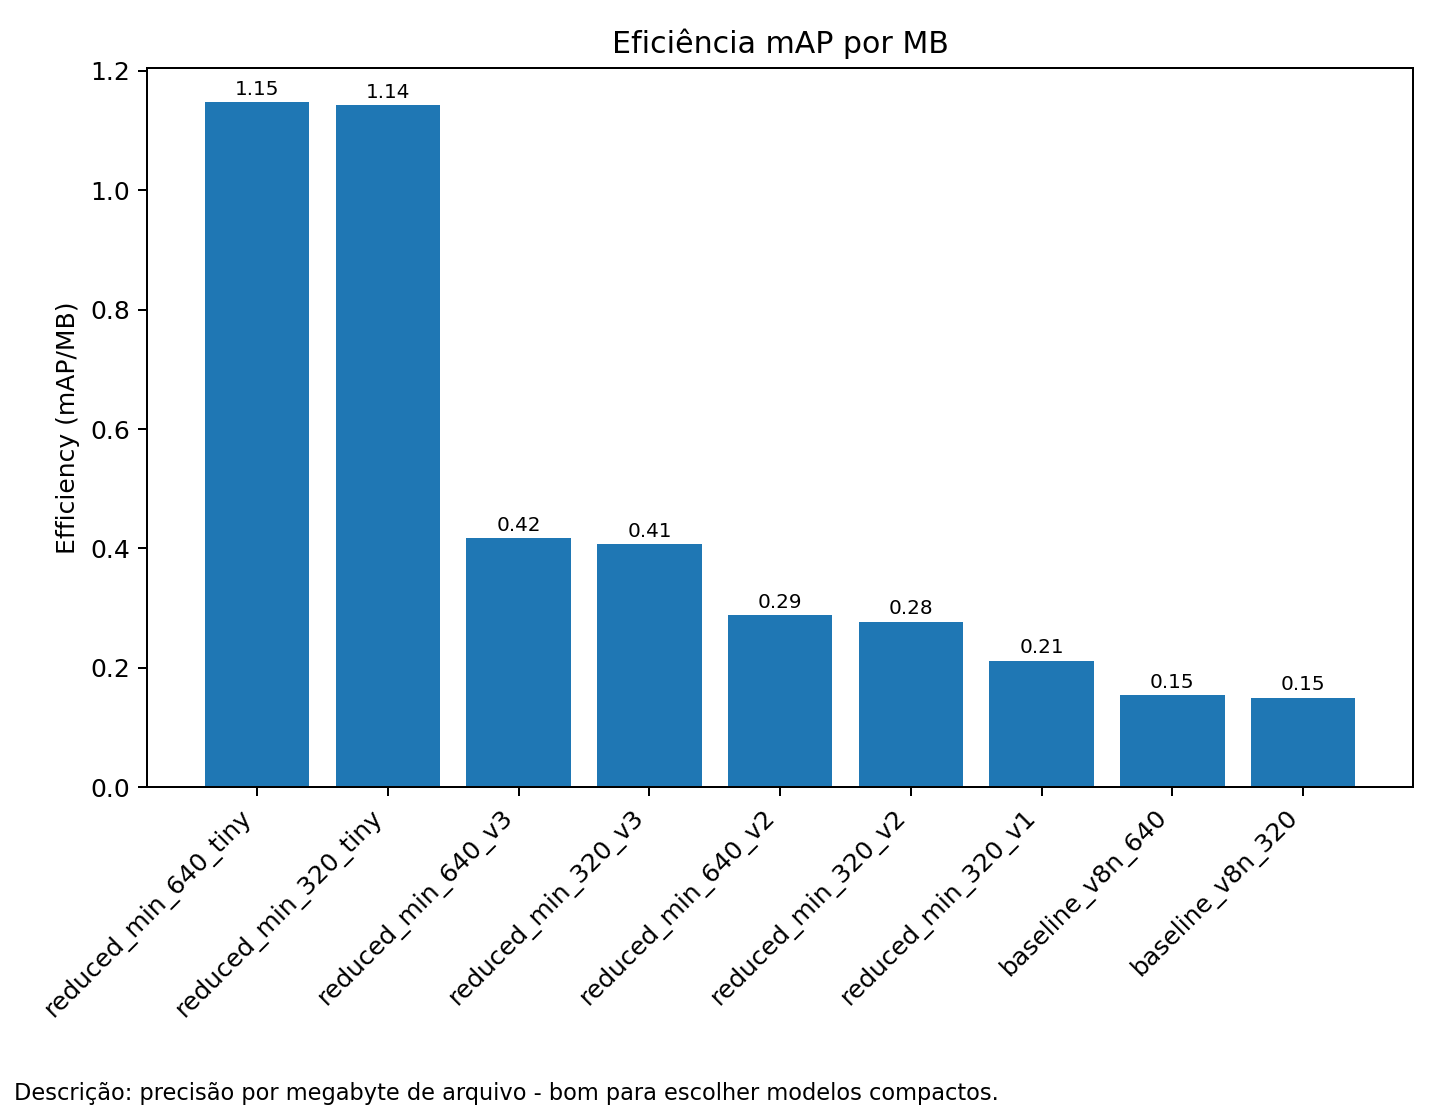
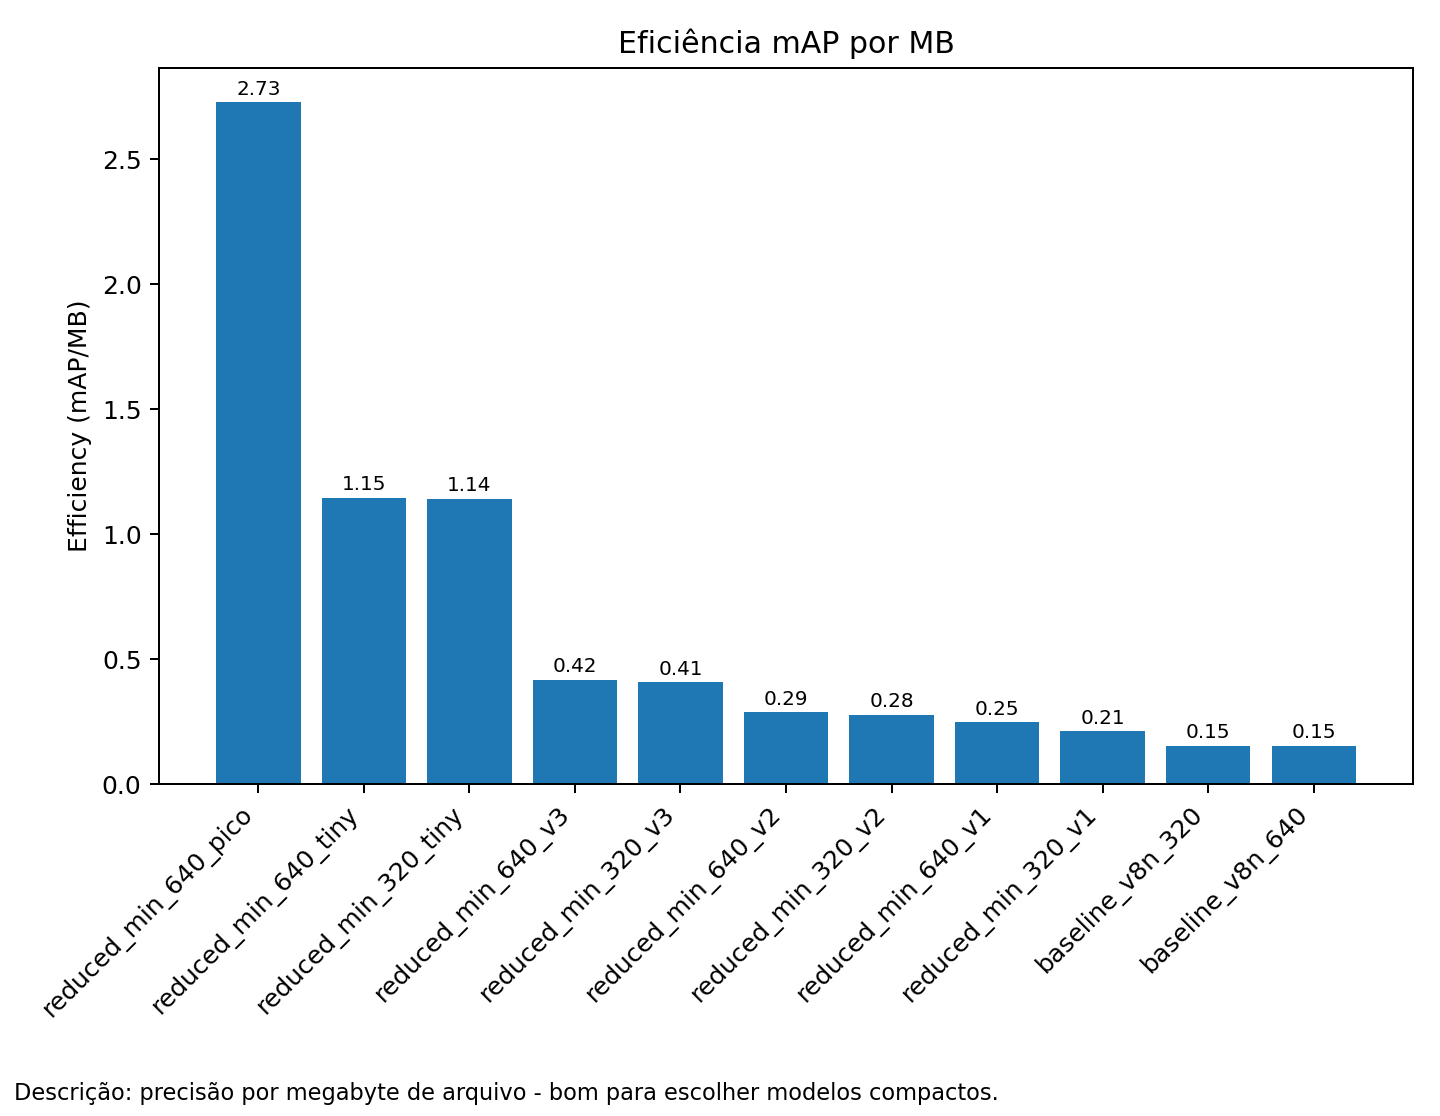
fix: ajuste calculo do score

diff --git a/summarize_runs.py b/summarize_runs.py
@@ -34,10 +34,10 @@ LAT_WARMUP = 10
 LAT_ITERS  = 100
 DEVICE = "cuda:0" if torch.cuda.is_available() else "cpu"
 
-# Pesos do score composto: score = A*mAP - B*log(Params) - C*Latency
-SCORE_A = 1.00   # peso da acurácia (mAP@0.5)
-SCORE_B = 0.35   # penalização por complexidade (log(Params))
-SCORE_C = 0.35   # penalização por latência
+# Pesos do score composto (A > B > C)
+SCORE_WA = 0.60  # mAP
+SCORE_WB = 0.25  # Params (baixo é melhor)
+SCORE_WC = 0.15  # Latência (baixo é melhor)
 
 # Títulos curtos
 MAX_LABEL_LEN = 60
@@ -315,7 +315,7 @@ def plot_bars(df: pd.DataFrame, col: str, title: str, fname: str, outdir: Path):
         "mAP@0.5:0.95": "Descrição: métrica mais exigente (IoU de 0.5 a 0.95). Retrata melhor a qualidade geral do detector.",
         "Efficiency (mAP/Params)": "Descrição: quanta precisão obtemos por milhão de parâmetros - eficiência do modelo.",
         "Efficiency (mAP/MB)": "Descrição: precisão por megabyte de arquivo - bom para escolher modelos compactos.",
-        "Score": "Descrição: ranking único que equilibra precisão, tamanho e velocidade (pesos A/B/C ajustáveis ao objetivo).",
+        "Score": "Descrição: Score composto (0–100) que pondera mAP (60%), número de parâmetros (25%) e latência (15%), priorizando precisão mas premiando modelos menores e mais rápidos.",
     }.get(col, "")
     if hint:
         add_caption(fig, hint)
@@ -325,6 +325,13 @@ def plot_bars(df: pd.DataFrame, col: str, title: str, fname: str, outdir: Path):
     plt.close(fig)
 
 
+def _norm01(x: pd.Series) -> pd.Series:
+    x = pd.to_numeric(x, errors="coerce")
+    xmin, xmax = x.min(skipna=True), x.max(skipna=True)
+    if not np.isfinite(xmin) or not np.isfinite(xmax) or xmax == xmin:
+        return pd.Series(np.nan, index=x.index)
+    return (x - xmin) / (xmax - xmin)
+
 def compute_efficiencies_and_score(df: pd.DataFrame) -> pd.DataFrame:
     d = df.copy()
     p = safe_series(d, "Params (M)")
@@ -332,16 +339,32 @@ def compute_efficiencies_and_score(df: pd.DataFrame) -> pd.DataFrame:
     m = safe_series(d, "mAP@0.5")
     lat = safe_series(d, "Latency (ms)")
 
+    # Eficiências auxiliares
     d["Efficiency (mAP/Params)"] = np.where((p > 0) & m.notna(), m / p, np.nan)
     d["Efficiency (mAP/MB)"]     = np.where((mb > 0) & m.notna(), m / mb, np.nan)
 
-    logp = np.where(p > 0, np.log(p), np.nan)
-    score = np.full(len(d), np.nan, dtype=float)
-    for i in range(len(d)):
-        if np.isfinite(m.iloc[i]) and np.isfinite(logp[i]) and np.isfinite(lat.iloc[i]):
-            score[i] = SCORE_A * m.iloc[i] - SCORE_B * logp[i] - SCORE_C * (lat.iloc[i] / 100.0)
+    # Utilidades normalizadas [0,1]
+    # A: mAP alto -> melhor
+    uA = _norm01(m)
+
+    # B: menos parâmetros melhor (usamos log para suavizar escala)
+    logp = pd.Series(np.where(p > 0, np.log(p), np.nan), index=d.index)
+    uB = _norm01(-logp)  # inverte: menor logp => maior utilidade
+
+    # C: menor latência melhor
+    uC = _norm01(-lat)
+
+    # Score final (0-100)
+    score = 100.0 * (SCORE_WA * uA + SCORE_WB * uB + SCORE_WC * uC)
     d["Score"] = score
+
+    # Extras úteis para depurar
+    d["uA_mAP"]     = uA
+    d["uB_params"]  = uB
+    d["uC_latency"] = uC
+
     return d
+
 
 
 # ----------------- MAIN -----------------
@@ -469,7 +492,7 @@ def main():
         ("mAP@0.5:0.95",      "mAP@0.5:0.95",              "bars_map5095.png"),
         ("Efficiency (mAP/Params)", "Eficiência mAP por Params", "bars_eff_map_per_params.png"),
         ("Efficiency (mAP/MB)",     "Eficiência mAP por MB",     "bars_eff_map_per_mb.png"),
-        ("Score",             f"Score composto (A={SCORE_A}, B={SCORE_B}, C={SCORE_C})", "bars_score.png"),
+        ("Score", f"Score composto (A={SCORE_WA}, B={SCORE_WB}, C={SCORE_WC})", "bars_score.png"),
     ]:
         try:
             if col in df_scored.columns:

diff --git a/reports/model_report.md b/reports/model_report.md
@@ -2,12 +2,14 @@
 
 | Kind   | Run                             | Stage        | Model                            |   ImgSize |   Epochs |   Batch | File                                            |   Size (MB) |   mAP@0.5 |   mAP@0.5:0.95 |   Train Time (min) |   Params (M) |   FLOPs (G) |   Latency (ms) |
 |:-------|:--------------------------------|:-------------|:---------------------------------|----------:|---------:|--------:|:------------------------------------------------|------------:|----------:|---------------:|-------------------:|-------------:|------------:|---------------:|
-| run    | runs_train/reduced_min_320_tiny | reduced_arch | models\reduced_min_320_tiny.yaml |       320 |      200 |      32 | runs_train/reduced_min_320_tiny/weights/best.pt |       0.735 |    0.8397 |         0.5183 |                0   |       0.3029 |      0.2154 |          3.478 |
-| run    | runs_train/reduced_min_640_tiny | reduced_arch | models/reduced_min_640_tiny.yaml |       640 |      150 |      16 | runs_train/reduced_min_640_tiny/weights/best.pt |       0.766 |    0.8787 |         0.5617 |              176.6 |       0.3029 |      0.2154 |          3.479 |
-| run    | runs_train/reduced_min_320_v3   | reduced_arch | models\reduced_min_320_v3.yaml   |       320 |      150 |      32 | runs_train/reduced_min_320_v3/weights/best.pt   |       2.126 |    0.8651 |         0.5477 |                0   |       1.0207 |      0.4562 |          4.317 |
-| run    | runs_train/reduced_min_640_v3   | reduced_arch | models\reduced_min_640_v3.yaml   |       640 |      150 |      16 | runs_train/reduced_min_640_v3/weights/best.pt   |       2.164 |    0.903  |         0.5963 |              747.4 |       1.0207 |      0.4562 |          4.6   |
-| run    | runs_train/reduced_min_320_v2   | reduced_arch | models\reduced_min_320_v2.yaml   |       320 |      100 |      32 | runs_train/reduced_min_320_v2/weights/best.pt   |       3.109 |    0.861  |         0.5402 |                0   |       1.5387 |      0.5748 |          4.357 |
-| run    | runs_train/reduced_min_640_v2   | reduced_arch | models\reduced_min_640_v2.yaml   |       640 |      150 |      16 | runs_train/reduced_min_640_v2/weights/best.pt   |       3.154 |    0.9078 |         0.6026 |                0   |       1.5387 |      0.5748 |          4.35  |
-| run    | runs_train/reduced_min_320_v1   | reduced_arch | models\reduced_min_320_v1.yaml   |       320 |       10 |      16 | runs_train/reduced_min_320_v1/weights/best.pt   |       3.603 |    0.7638 |         0.4493 |                0   |       1.7992 |      0.6469 |          4.604 |
-| run    | runs_train/baseline_v8n_320     |              | models\baseline_v8n_320.yaml     |       320 |       60 |      16 | runs_train/baseline_v8n_320/weights/best.pt     |       5.923 |    0.8879 |         0.5803 |                0   |       3.011  |      1.0243 |          4.71  |
-| run    | runs_train/baseline_v8n_640     | baseline     | yolov8n.pt                       |       640 |       60 |      16 | runs_train/baseline_v8n_640/weights/best.pt     |       5.961 |    0.9199 |         0.6234 |              112.7 |       3.011  |      1.0243 |          4.612 |
+| run    | runs_train\reduced_min_640_pico | reduced_arch | models\reduced_min_640_pico.yaml |       640 |      250 |      16 | runs_train\reduced_min_640_pico\weights\best.pt |       0.26  |    0.7096 |         0.3908 |                0   |       0.0812 |      0.1469 |          1.855 |
+| run    | runs_train\reduced_min_320_tiny | reduced_arch | models\reduced_min_320_tiny.yaml |       320 |      200 |      32 | runs_train\reduced_min_320_tiny\weights\best.pt |       0.735 |    0.8397 |         0.5183 |                0   |       0.3029 |      0.2154 |         10.096 |
+| run    | runs_train\reduced_min_640_tiny | reduced_arch | models/reduced_min_640_tiny.yaml |       640 |      150 |      16 | runs_train\reduced_min_640_tiny\weights\best.pt |       0.766 |    0.8787 |         0.5617 |                0   |       0.3029 |      0.2154 |          8.887 |
+| run    | runs_train\reduced_min_320_v3   | reduced_arch | models\reduced_min_320_v3.yaml   |       320 |      150 |      32 | runs_train\reduced_min_320_v3\weights\best.pt   |       2.126 |    0.8651 |         0.5477 |                0   |       1.0207 |      0.4562 |         11.165 |
+| run    | runs_train\reduced_min_640_v3   | reduced_arch | models\reduced_min_640_v3.yaml   |       640 |      150 |      16 | runs_train\reduced_min_640_v3\weights\best.pt   |       2.164 |    0.903  |         0.5963 |              384.7 |       1.0207 |      0.4562 |         10.222 |
+| run    | runs_train\reduced_min_320_v2   | reduced_arch | models\reduced_min_320_v2.yaml   |       320 |      100 |      32 | runs_train\reduced_min_320_v2\weights\best.pt   |       3.109 |    0.861  |         0.5402 |                0   |       1.5387 |      0.5748 |         11.212 |
+| run    | runs_train\reduced_min_640_v2   | reduced_arch | models\reduced_min_640_v2.yaml   |       640 |      150 |      16 | runs_train\reduced_min_640_v2\weights\best.pt   |       3.154 |    0.9078 |         0.6026 |              340.8 |       1.5387 |      0.5748 |         10.329 |
+| run    | runs_train\reduced_min_320_v1   | reduced_arch | models\reduced_min_320_v1.yaml   |       320 |       10 |      16 | runs_train\reduced_min_320_v1\weights\best.pt   |       3.603 |    0.7638 |         0.4493 |                0   |       1.7992 |      0.6469 |         10.089 |
+| run    | runs_train\reduced_min_640_v1   | reduced_arch | models\reduced_min_640_v1.yaml   |       640 |      150 |      16 | runs_train\reduced_min_640_v1\weights\best.pt   |       3.658 |    0.9101 |         0.6079 |              374.8 |       1.7992 |      0.6469 |         10.611 |
+| run    | runs_train\baseline_v8n_320     | baseline     | yolov8n.pt                       |       640 |       60 |      16 | runs_train\baseline_v8n_320\weights\best.pt     |       5.961 |    0.9199 |         0.6234 |             2867   |       3.011  |      1.0243 |         10.033 |
+| run    | runs_train\baseline_v8n_640     | baseline     | yolov8n.pt                       |       640 |       60 |      16 | runs_train\baseline_v8n_640\weights\best.pt     |       5.961 |    0.9199 |         0.6234 |             2414.2 |       3.011  |      1.0243 |         10.145 |
